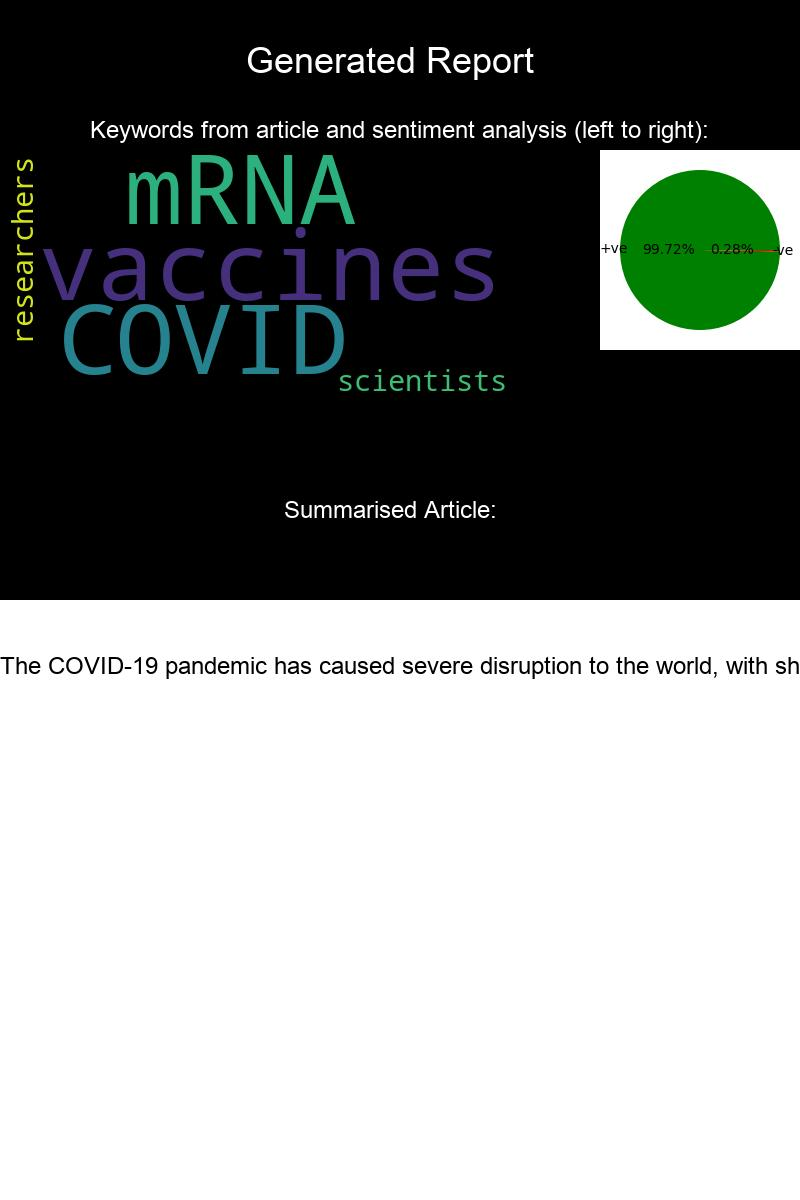
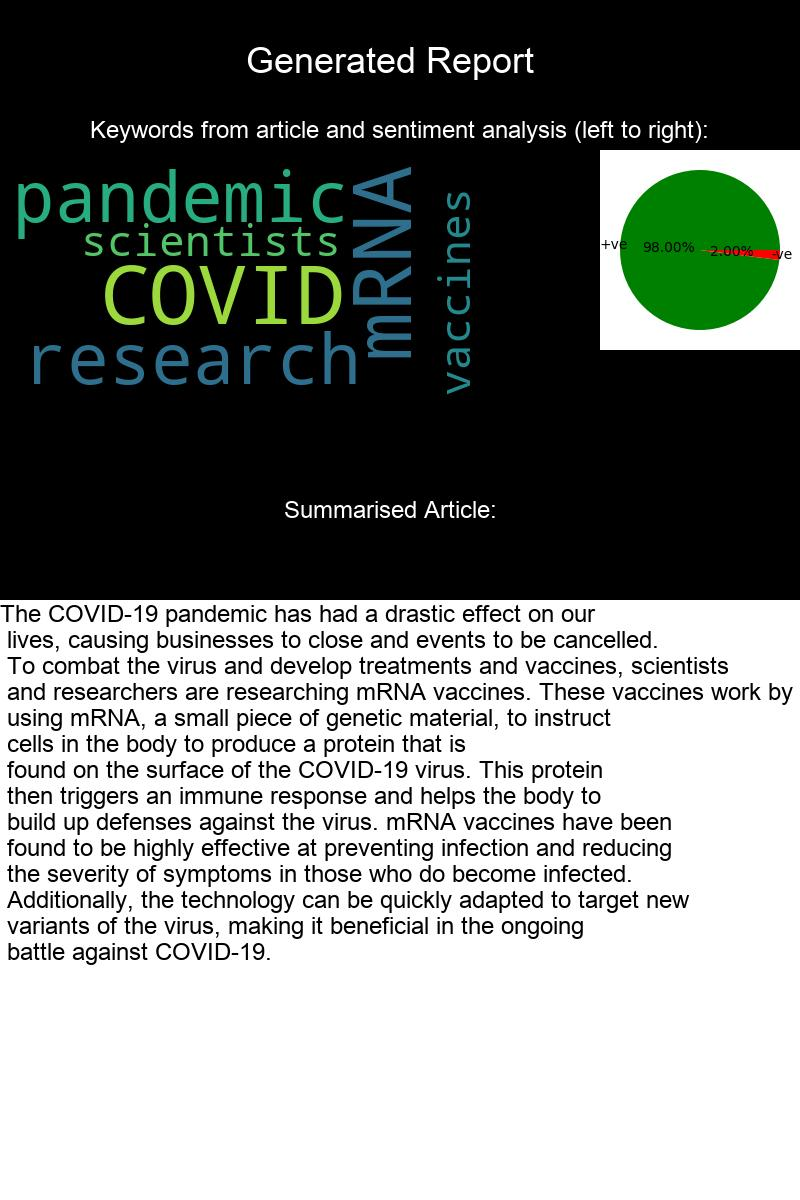
made changes to backend

diff --git a/msdhealthcare-app/src/Components/Home.js b/msdhealthcare-app/src/Components/Home.js
@@ -1,11 +1,13 @@
 import React, { Component } from "react";
 import ParticlesBg from "particles-bg";
-import pic from "../infographic.jpg";
+import pic from "../infographic1.jpg";
+import loading from "../loading.png";
 
 class Home extends Component {
     state = {
         onSelectedFile: null,
-        onData: null
+        onData: null,
+        image: loading
     };
 
     changeData = (newData) => {
@@ -14,10 +16,12 @@ class Home extends Component {
 
     onFileChange = event => {
         this.setState({ onSelectedFile: event.target.files[0] });
+        this.setState({ image: loading });
     };
 
 
     onFileUpload = () => {
+        this.setState({ onData: " " })
         const formData = new FormData();
         formData.append(
             "file",
@@ -34,6 +38,7 @@ class Home extends Component {
             return response.text();
         }).then((data) => {
             this.setState({ onData: data })
+            this.setState({ image: pic })
         });
     };
 
@@ -46,7 +51,6 @@ class Home extends Component {
         return (
             <header id="home">
                 <ParticlesBg type="circle" bg={true} />
-
                 <div className="row banner">
                     <div className="banner-text">
                         <h1 className="responsive-headline">{name}</h1>
@@ -61,9 +65,9 @@ class Home extends Component {
                     </div>
 
                     {this.state.onData &&
-                        <div style={{ flexDirection: "row" }}>
+                        <div className="container">
                             <h3 style={{ color: "white" }}>{this.state.onData}</h3>
-                            <img src={pic} />;
+                            <img style={{ width: "30%" }} src={this.state.image} />
                         </div>}
 
                 </div>

diff --git a/msdhealthcare-app/public/css/layout.css b/msdhealthcare-app/public/css/layout.css
@@ -256,6 +256,12 @@ ul#nav li.current a { color: #fe6928; }
 #resume .header-col { padding-top: 9px; }
 #resume .main-col { padding-right: 10%; }
 
+.container {
+   width: 100%;
+   display: flex;
+   flex-direction: row;
+ }
+
 .education, .work {
    margin-bottom: 48px;
    padding-bottom: 24px;

diff --git a/backend/nlpcloud_test.py b/backend/nlpcloud_test.py
@@ -5,8 +5,8 @@ from PIL import Image, ImageDraw, ImageFont
 import matplotlib.pyplot as plt
 import numpy as np
 
-api_key = "211ced6886270c25c3a91ec5277aa320f755ea61"
-#api_key = "7edefa0cd0d99468cc9d64a4cea93e0cd3490963"
+# api_key = "211ced6886270c25c3a91ec5277aa320f755ea61"
+api_key = "7edefa0cd0d99468cc9d64a4cea93e0cd3490963"
 # api_key = "b63ca4df943496fe98ef208580041f78a3667554"
 
 def file_to_string(file):
@@ -129,7 +129,7 @@ def infographicCreation(summary):
     draw.text((text_box2[0], text_box2[1]), summary, font=text_font2, fill=(0, 0, 0))
 
     # Save the infographic as an image file
-    infographic.save("./src/infographic.jpg")
+    infographic.save("./msdhealthcare-app/src/infographic.jpg")
 
     # Display the infographic
     # plt.imshow(infographic)

diff --git a/backend/app.py b/backend/app.py
@@ -13,7 +13,7 @@ def pdf():
     if (request.method == "POST"):
         actualPDF = request.files['file']
         summary = pf.summarise(actualPDF)
-        nlpt.infographicCreation(pf.split_lines(summary))
+        # nlpt.infographicCreation(pf.split_lines(summary))
         return pf.string_to_file(summary)
         # summary_pdf.save('packagedPDF.pdf')
         # return message

diff --git a/backend/processfile.py b/backend/processfile.py
@@ -10,7 +10,7 @@ from flask import Flask, request
 
 #app = Flask(__name__)
 #openai.api_key_path = 'IEEEmsdhealthcare/backend/.env'
-openai.api_key = "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"
+openai.api_key = "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"
 
 #@app.route("/", methods=("GET", "POST"))
 def summarise(file):
